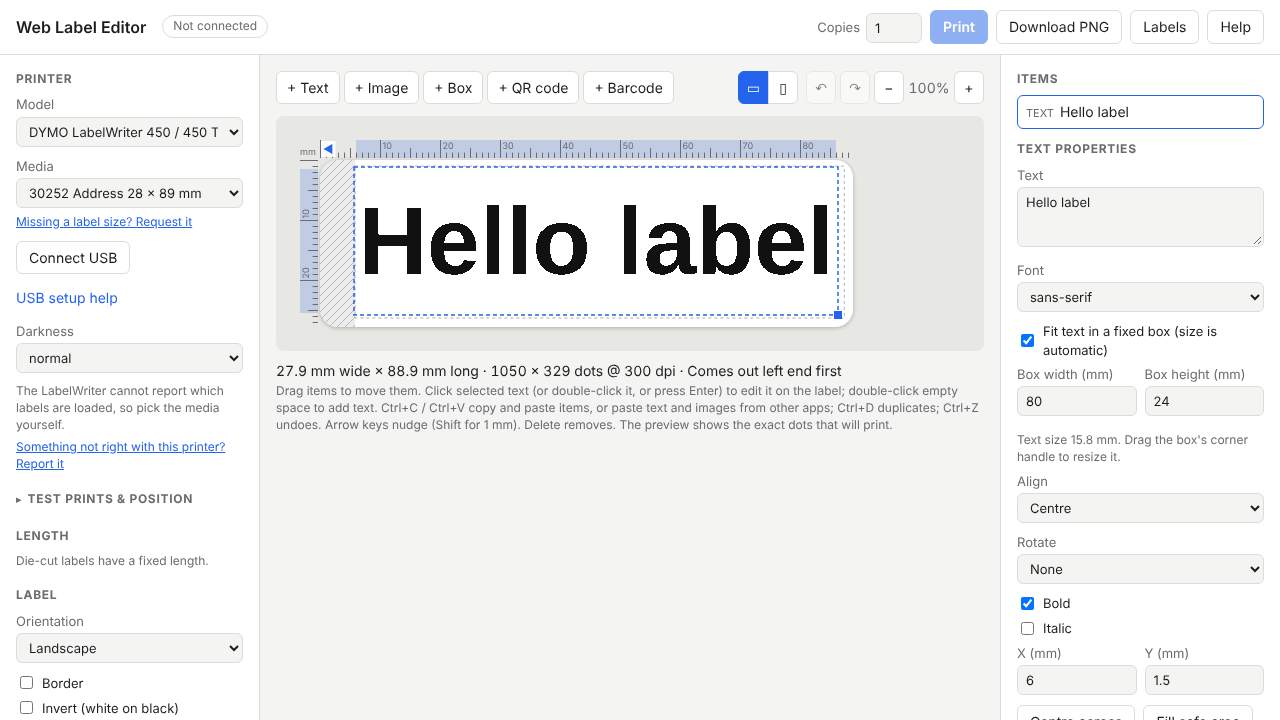
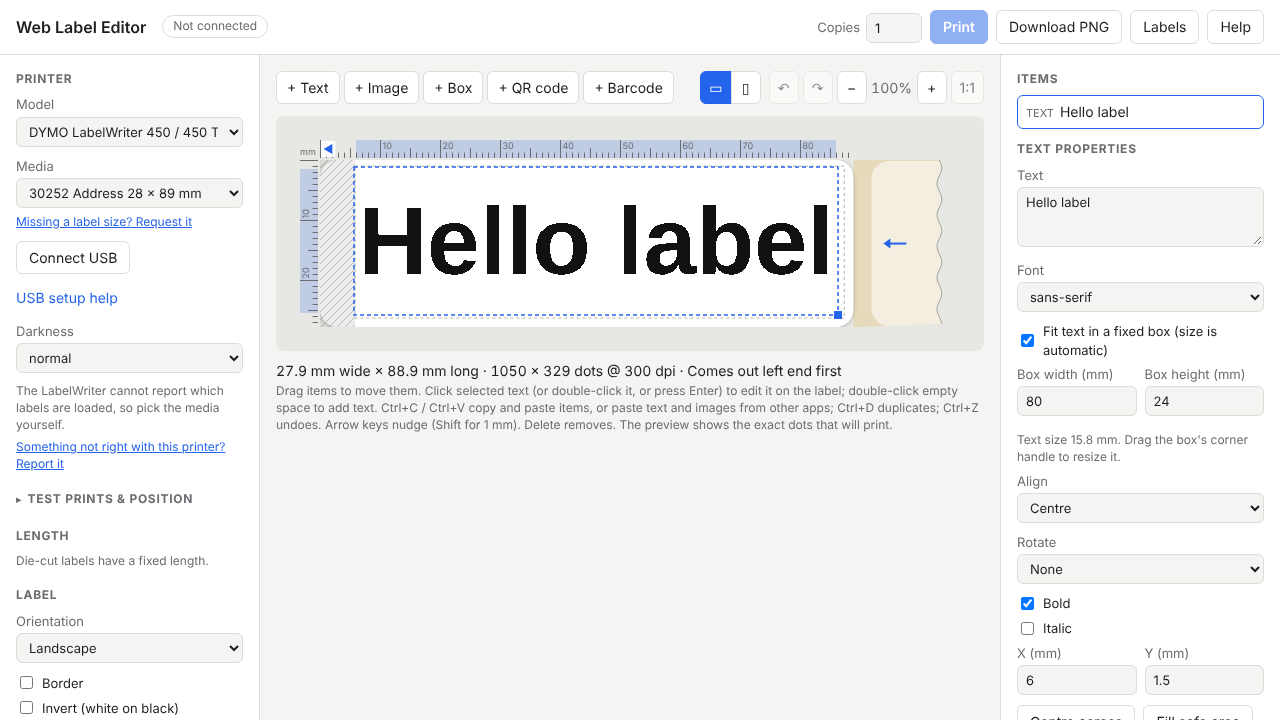
Show the roll: a faded stub past the label's trailing end
The rest of the roll still in the printer is sketched past the label's
trailing end: the backing gap and the next label for die-cut labels, the
tape running on otherwise (with the cut dashed when the printer cuts), a
torn far edge, and an arrow the way the label moves out. It follows the
printer (Brother QL feeds the other way) and portrait. The label is drawn
offset on the canvas; pointer, editor, rulers and buttons follow.

Claude-Session: https://claude.ai/code/session_01YQFkThD3TEfZZoGyfdA6sY

Changed region(s): [[0.6562, 0.2139, 0.6875, 0.4583], [0.5312, 0.0917, 0.625, 0.1528], [0.6875, 0.0917, 0.75, 0.1528]]

diff --git a/src/app.js b/src/app.js
@@ -100,6 +100,8 @@ let editZoom = 6; // the zoom chosen with − / +
 // itself switches to real size.
 let actualSize = false;
 let actualPanel = false;
+// Where the label starts on the editor canvas, CSS px (past the roll stub).
+let viewOrigin = { x: 0, y: 0 };
 let transport = null;
 let last = null; // last render result
 let loaded = null; // last tape status reported by the printer
@@ -407,24 +409,64 @@ function draw() {
   const scale = zoom / dpmm; // screen px per dot
   const cssW = display.width * scale;
   const cssH = display.height * scale;
+
+  // Which way the label comes out, where it is cut, and where it grows.
+  const along = (x) => (last.portrait ? geo.width - x : x); // strip x → display, along the feed
+  const leadX = m.leadingEnd === 'end' ? geo.width : 0;
+  const cuts = m.options.some((o) => o.id === 'autoCut') && option('autoCut') !== false;
+  const grows = !med.lengthDots && design.length.mode !== 'fixed';
+  const feed = { lead: along(leadX), trail: along(geo.width - leadX), cuts, grows };
+
+  // The roll still in the printer is sketched past the label's trailing
+  // end (a short stub with a torn edge and an arrow the way it moves), so
+  // the canvas is that much longer and the label starts `viewOrigin` in.
+  const alongPx = last.portrait ? cssH : cssW;
+  const stub = Math.round(Math.max(28, Math.min(alongPx / zoom / 4, 15) * zoom));
+  const stubAtStart = feed.trail < 1;
+  viewOrigin = {
+    x: !last.portrait && stubAtStart ? stub : 0,
+    y: last.portrait && stubAtStart ? stub : 0,
+  };
+  const fullW = cssW + (last.portrait ? 0 : stub);
+  const fullH = cssH + (last.portrait ? stub : 0);
   const dpr = window.devicePixelRatio || 1;
-  canvas.style.width = `${cssW}px`;
-  canvas.style.height = `${cssH}px`;
-  canvas.width = Math.round(cssW * dpr);
-  canvas.height = Math.round(cssH * dpr);
+  canvas.style.width = `${fullW}px`;
+  canvas.style.height = `${fullH}px`;
+  canvas.width = Math.round(fullW * dpr);
+  canvas.height = Math.round(fullH * dpr);
 
   const ctx = canvas.getContext('2d');
   ctx.setTransform(dpr, 0, 0, dpr, 0, 0);
   ctx.imageSmoothingEnabled = false;
   const colors = previewColors();
-  ctx.drawImage(bitmapToCanvas(display, colors.ink, colors.paper), 0, 0, cssW, cssH);
-  const px = (r) => ({ x: r.x * scale, y: r.y * scale, w: r.w * scale, h: r.h * scale });
-
-  // Label outlines: the canvas itself when it is just one label; otherwise
-  // each label is outlined and the liner around them tinted.
   const radius = (med.cornerMm ?? 0) * zoom;
+  drawFeedStub(ctx, {
+    stub, stubAtStart, portrait: last.portrait, cssW, cssH, colors, radius, cuts,
+    dieCut: !!med.lengthDots, gap: Math.min(3 * zoom, stub * 0.3),
+  });
+  ctx.translate(viewOrigin.x, viewOrigin.y);
+
+  // Label outlines: a single plain label is clipped to its rounded shape;
+  // otherwise each label is outlined and the liner around them tinted.
   const plain = slots.length === 1 && !geo.top && !geo.bottom && !geo.right;
-  canvas.style.borderRadius = plain && radius ? `${radius}px` : '0';
+  ctx.save();
+  ctx.shadowColor = 'rgba(0, 0, 0, .25)';
+  ctx.shadowBlur = 4;
+  ctx.shadowOffsetY = 1;
+  ctx.fillStyle = `rgb(${colors.paper.join(',')})`;
+  ctx.beginPath();
+  ctx.roundRect(0, 0, cssW, cssH, plain ? radius : 0);
+  ctx.fill();
+  ctx.restore();
+  ctx.save();
+  if (plain && radius) {
+    ctx.beginPath();
+    ctx.roundRect(0, 0, cssW, cssH, radius);
+    ctx.clip();
+  }
+  ctx.drawImage(bitmapToCanvas(display, colors.ink, colors.paper), 0, 0, cssW, cssH);
+  ctx.restore();
+  const px = (r) => ({ x: r.x * scale, y: r.y * scale, w: r.w * scale, h: r.h * scale });
   if (!plain) {
     const shapes = new Path2D();
     for (const s of slots) {
@@ -497,12 +539,6 @@ function draw() {
       ctx.fillRect(h.x, h.y, h.size, h.size);
     }
   }
-  // Which way the label comes out, where it is cut, and where it grows.
-  const along = (x) => (last.portrait ? geo.width - x : x); // strip x → display, along the feed
-  const leadX = model().leadingEnd === 'end' ? geo.width : 0;
-  const cuts = model().options.some((o) => o.id === 'autoCut') && option('autoCut') !== false;
-  const grows = !med.lengthDots && design.length.mode !== 'fixed';
-  const feed = { lead: along(leadX), trail: along(geo.width - leadX), cuts, grows };
   drawRulers(selBounds, feed);
   placeLaneButtons(scale);
 
@@ -540,6 +576,83 @@ function draw() {
   if (editing) positionEditor();
 }
 
+// The roll still in the printer, past the label's trailing end: the gap
+// and the next label (die-cut) or the tape running on, faded, with a torn
+// far edge, an arrow the way the label moves, and the cut (dashed) when
+// the printer cuts. Drawn before the canvas is shifted to the label.
+function drawFeedStub(ctx, o) {
+  const { stub, stubAtStart, portrait, cssW, cssH, colors, radius, dieCut, gap, cuts } = o;
+  // Work in "along / across" terms, then map to x / y.
+  const across = portrait ? cssW : cssH;
+  const near = stubAtStart ? stub : (portrait ? cssH : cssW); // the label's trailing edge
+  const dir = stubAtStart ? -1 : 1; // from the label into the stub
+  const P = (a, c) => (portrait ? [c, a] : [a, c]);
+  const wave = (a0) => {
+    // The torn far edge, as a path along the across axis.
+    const pts = [];
+    for (let c = 0; c <= across; c += 4) pts.push(P(a0 + Math.sin(c / 5) * 2.5 * dir, c));
+    return pts;
+  };
+  const far = near + dir * (stub - 4);
+  ctx.save();
+  ctx.globalAlpha = 0.55;
+  // Backing or tape body: from the label's edge to the torn edge.
+  const region = new Path2D();
+  region.moveTo(...P(near, 0));
+  for (const pt of wave(far)) region.lineTo(...pt);
+  region.lineTo(...P(near, across));
+  region.closePath();
+  ctx.fillStyle = dieCut ? 'rgba(230, 190, 110, .6)' : `rgb(${colors.paper.join(',')})`;
+  ctx.fill(region);
+  if (dieCut) {
+    // The next label after the gap, clipped by the torn edge.
+    ctx.save();
+    ctx.clip(region);
+    ctx.fillStyle = `rgb(${colors.paper.join(',')})`;
+    const a = near + dir * gap;
+    const len = stub;
+    const [x, y] = P(Math.min(a, a + dir * len), 1);
+    const [w, h] = P(len, across - 2);
+    ctx.beginPath();
+    ctx.roundRect(x, y, w, h, radius);
+    ctx.fill();
+    ctx.restore();
+  }
+  ctx.globalAlpha = 1;
+  ctx.strokeStyle = 'rgba(120, 120, 120, .6)';
+  ctx.lineWidth = 1;
+  ctx.beginPath();
+  wave(far).forEach((pt, i) => (i ? ctx.lineTo(...pt) : ctx.moveTo(...pt)));
+  ctx.stroke();
+  if (cuts && !dieCut) {
+    ctx.setLineDash([3, 3]);
+    ctx.beginPath();
+    ctx.moveTo(...P(near, 0));
+    ctx.lineTo(...P(near, across));
+    ctx.stroke();
+    ctx.setLineDash([]);
+  }
+  // The arrow: the label moves away from the stub, towards its leading end.
+  const accent = getComputedStyle(document.documentElement).getPropertyValue('--accent').trim() || '#2463eb';
+  const mid = near + (dir * (stub - 4)) / 2;
+  const half = Math.min(stub * 0.3, 10);
+  const c = across / 2;
+  ctx.strokeStyle = accent;
+  ctx.fillStyle = accent;
+  ctx.lineWidth = 2;
+  ctx.beginPath();
+  ctx.moveTo(...P(mid + dir * half, c));
+  ctx.lineTo(...P(mid - dir * half, c));
+  ctx.stroke();
+  ctx.beginPath();
+  ctx.moveTo(...P(mid - dir * (half + 3), c));
+  ctx.lineTo(...P(mid - dir * (half - 4), c - 5));
+  ctx.lineTo(...P(mid - dir * (half - 4), c + 5));
+  ctx.closePath();
+  ctx.fill();
+  ctx.restore();
+}
+
 // On a 2-up row: a button on each dimmed copy to design that label
 // separately, and on the other labels of a separate design to link them
 // back to label 1. Rebuilt only when the layout changes, so a click isn't
@@ -571,8 +684,8 @@ function placeLaneButtons(scale) {
   const canvas = $('canvas');
   for (const b of box.children) {
     const s = last.slots[Number(b.dataset.lane)];
-    b.style.left = `${canvas.offsetLeft + (s.label.x + s.label.w) * scale - 4}px`;
-    b.style.top = `${canvas.offsetTop + s.label.y * scale + 4}px`;
+    b.style.left = `${canvas.offsetLeft + viewOrigin.x + (s.label.x + s.label.w) * scale - 4}px`;
+    b.style.top = `${canvas.offsetTop + viewOrigin.y + s.label.y * scale + 4}px`;
   }
 }
 
@@ -714,7 +827,9 @@ function drawRulers(sel, feed) {
   const labelW = slots[0].label.w;
   const labelH = slots[0].label.h;
 
-  const top = setup('ruler-top', display.width * scale, T);
+  const canvasEl = $('canvas');
+  const top = setup('ruler-top', parseFloat(canvasEl.style.width), T);
+  top.translate(viewOrigin.x, 0);
   if (sel) {
     top.fillStyle = `${accent}33`;
     top.fillRect(sel.x * scale, 0, sel.w * scale, T);
@@ -723,7 +838,8 @@ function drawRulers(sel, feed) {
   // A continuous roll's scale runs on past the label to the end of the view.
   scaleAt(top, uniq(slots.map((s) => s.ox)), display.width * scale, last.portrait ? labelW : display.width, true);
 
-  const side = setup('ruler-left', T, display.height * scale);
+  const side = setup('ruler-left', T, parseFloat(canvasEl.style.height));
+  side.translate(0, viewOrigin.y);
   if (sel) {
     side.fillStyle = `${accent}33`;
     side.fillRect(0, sel.y * scale, T, sel.h * scale);
@@ -1699,7 +1815,7 @@ function deleteItem(item) {
 
 function canvasPointToMm(e) {
   const r = $('canvas').getBoundingClientRect();
-  return { x: (e.clientX - r.left) / zoom, y: (e.clientY - r.top) / zoom };
+  return { x: (e.clientX - r.left - viewOrigin.x) / zoom, y: (e.clientY - r.top - viewOrigin.y) / zoom };
 }
 
 function hitTest(pt) {
@@ -1720,8 +1836,8 @@ function onHandle(e) {
   if (!b || !resizable(item)) return null;
   const r = $('canvas').getBoundingClientRect();
   const h = handleRect(b, zoom / last.dpmm);
-  const x = e.clientX - r.left;
-  const y = e.clientY - r.top;
+  const x = e.clientX - r.left - viewOrigin.x;
+  const y = e.clientY - r.top - viewOrigin.y;
   const pad = 4;
   return x >= h.x - pad && x <= h.x + h.size + pad && y >= h.y - pad && y <= h.y + h.size + pad ? item : null;
 }
@@ -1865,8 +1981,8 @@ function positionEditor() {
   const scale = zoom / last.dpmm;
   const canvas = $('canvas');
   Object.assign(ta.style, {
-    left: `${canvas.offsetLeft + l.blockX * scale - 2}px`,
-    top: `${canvas.offsetTop + l.blockY * scale}px`,
+    left: `${canvas.offsetLeft + viewOrigin.x + l.blockX * scale - 2}px`,
+    top: `${canvas.offsetTop + viewOrigin.y + l.blockY * scale}px`,
     minWidth: `${Math.max(16, l.w * scale)}px`,
     font: `${item.italic ? 'italic ' : ''}${item.bold ? 'bold ' : ''}${l.px * scale}px ${item.font || 'sans-serif'}`,
     lineHeight: `${l.lineH * scale}px`,

diff --git a/src/about.js b/src/about.js
@@ -101,6 +101,8 @@ function tips() {
       li(b('1:1'), ' shows the label at its real size under the editor (or in the editor, when it is too long to fit), '
         + 'once you have calibrated your screen with a bank card or a ruler: the button asks the first time; Recalibrate… '
         + 'in the panel (or right-click 1:1) changes it.'),
+      li(b('The faded stub'), ' past one end of the label is the rest of the roll, still in the printer; its arrow shows '
+        + 'which way the label moves out.'),
       li(b('Ruler marks'), ': the arrow is the end that comes out of the printer first, ✂ where it is cut, » where a '
         + 'continuous label grows.'),
       li(b('Rotate'), ' turns text in quarter turns, for cable flags and vertical text; a fitted box turns with it '

diff --git a/style.css b/style.css
@@ -236,7 +236,6 @@ dialog.screen .row input[type="range"] { flex: 1; }
 #canvas {
   display: block;
   margin: 0;
-  box-shadow: 0 1px 4px rgba(0, 0, 0, .25);
   touch-action: none;
   outline: none;
 }

diff --git a/README.md b/README.md
@@ -384,6 +384,10 @@ take a few seconds to send.
 - **Rulers** along the top and side of the preview measure in mm from the
   label's starting edge and from each label's top edge, and mark the
   selected item.
+- **The roll:** a short faded stub past the label's trailing end shows the
+  rest of the roll still in the printer (the gap and the next label, or the
+  tape running on), with a torn edge and an arrow the way the label moves
+  out.
 - **Which way it prints:** the ruler along the feed marks the end that comes
   out of the printer first (◀ ▶ ▲ ▼), where the label is cut (✂, with
   auto-cut on), and where a continuous label grows (»); the note under the
